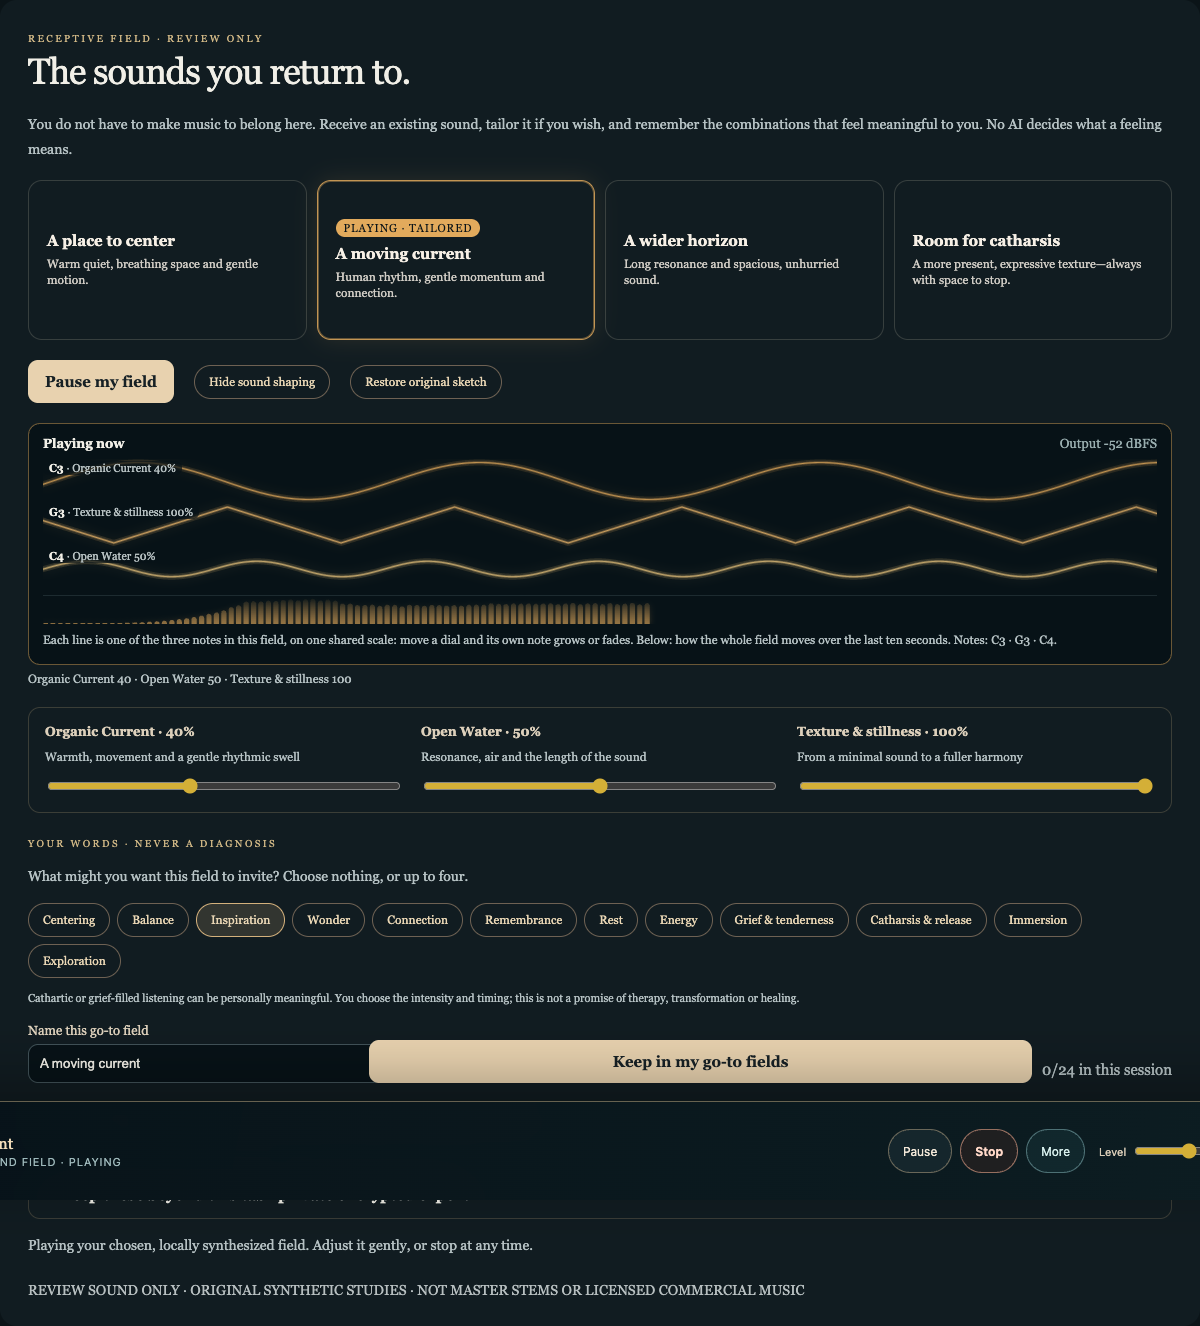
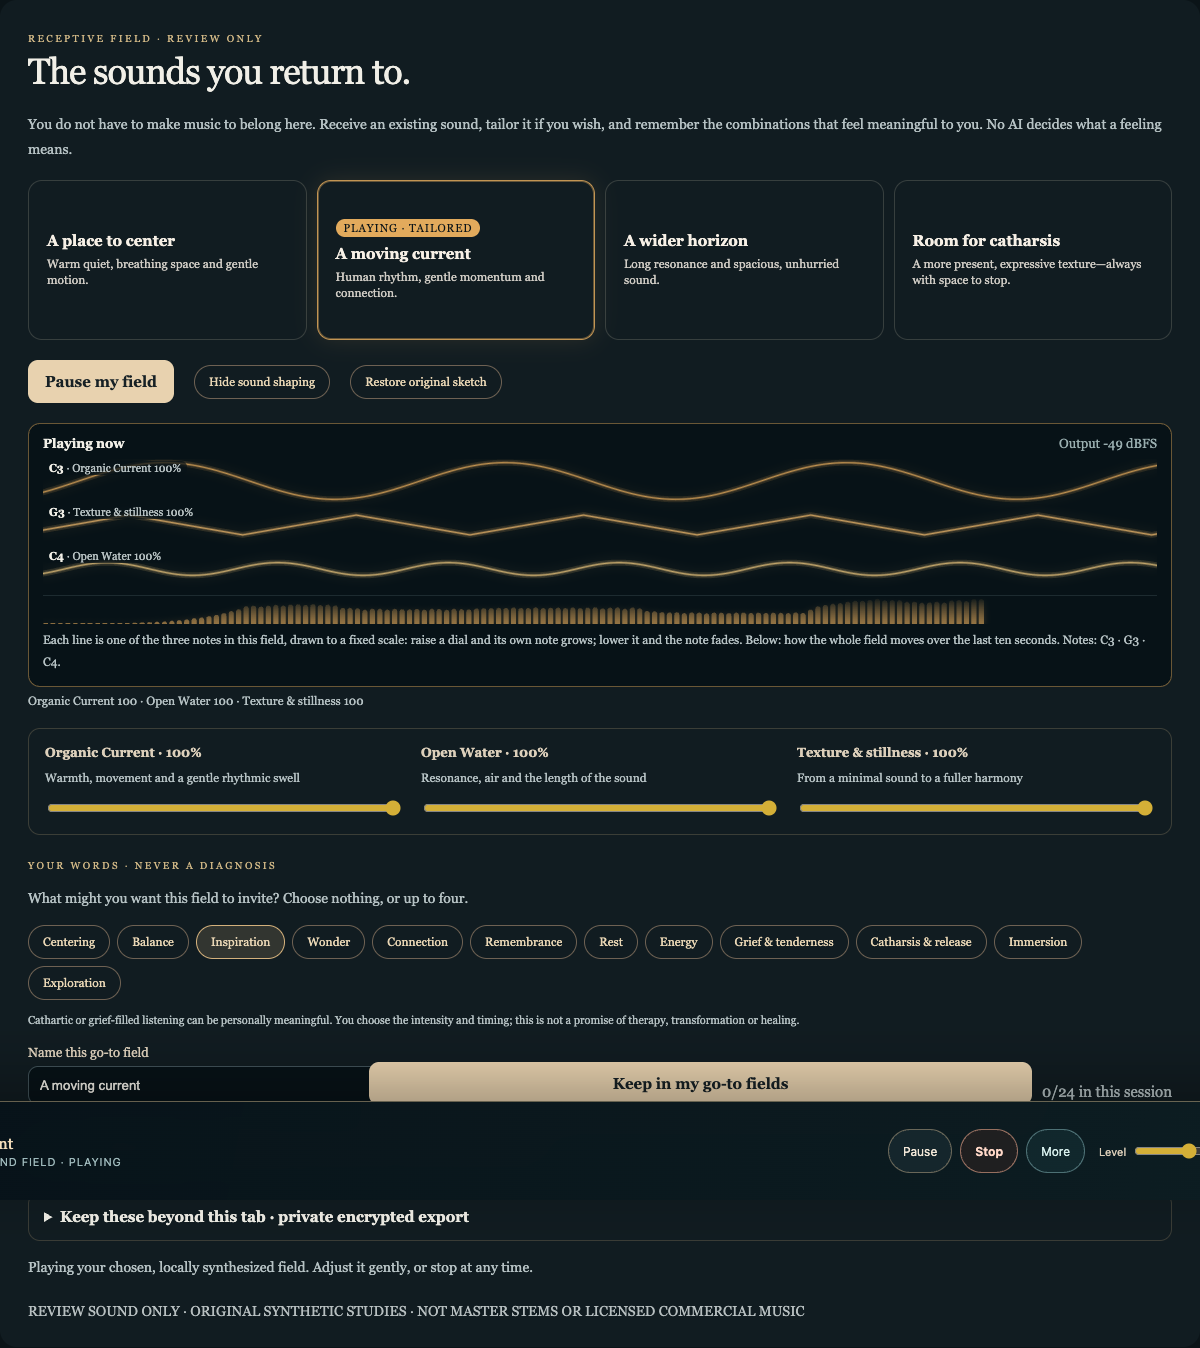
fix(listen): draw the Shelf's three lanes on a fixed full scale
The lanes were scaled to the loudest voice, so raising all three dials
together left the picture unchanged (founder screenshot at 100/100/100).
They are now drawn against the loudest a voice can be, so raising any dial,
or all three, grows its note on screen. The witness check that all three
lanes grow fails against the old scaling.

Founder screenshot 2026-11-19 on #1979.

diff --git a/app/listen/ReceptiveFieldDesk.tsx b/app/listen/ReceptiveFieldDesk.tsx
@@ -41,6 +41,13 @@ type Output = { analyser: AnalyserNode; voices?: AnalyserNode[]; frequencies: nu
  * Open Water → the top note (and the shared filter).
  */
 const VOICE_DIALS: ReadonlyArray<'pulse'|'density'|'space'> = ['pulse','density','space'];
+/**
+ * The loudest any voice can be, as applyReceptiveShape sets it: the lowest voice at 0.24 × (0.5 + 1)
+ * plus its swell (≤ 0.032). Every lane is drawn against this one FIXED scale, so raising a dial, or
+ * all three together, always visibly grows its note (founder, 2026-11-19). Voices are tapped before
+ * the level control, so the picture does not change with Level.
+ */
+const VOICE_FULL_SCALE = 0.24 * 1.5 + 0.032;
 /** How much time each lane shows: enough for a few cycles of the lowest note. */
 const WINDOW_SEC = 0.025;
 type Tint = readonly [number, number, number];
@@ -81,7 +88,8 @@ function LiveField({ getOutput, playing, paused, tint, shape }:{ getOutput:()=>O
       const n=voiceTaps?3:1, laneH=w.height/n;
       const buffers=(voiceTaps??(out?[out.analyser]:[])).map(a=>{const d=new Float32Array(a.fftSize);a.getFloatTimeDomainData(d);return d;});
       const peaks=buffers.map(d=>{let p=0;for(const v of d)if(Math.abs(v)>p)p=Math.abs(v);return p;});
-      scale=Math.max(...peaks,scale*0.985,1e-4); // eases down, so the picture breathes rather than jumps
+      // Voices: one fixed scale. The whole-output fallback (no voice taps): drawn to its own size, easing down.
+      scale=voiceTaps?VOICE_FULL_SCALE:Math.max(...peaks,scale*0.985,1e-4);
       const shades:[number,number][]=[[0,0.9],[22,0.8],[44,0.7]]; // the field's colour, lighter for higher notes
       for(let k=0;k<n;k++){
         const mid=laneH*k+laneH/2, d=buffers[k];
@@ -146,7 +154,7 @@ function LiveField({ getOutput, playing, paused, tint, shape }:{ getOutput:()=>O
     <canvas ref={motion} className={styles.liveMotion} aria-hidden="true" data-live-motion="true"/>
     <p className={styles.muted} style={{fontSize:12,margin:'6px 0 0'}}>
       {showLanes
-        ? 'Each line is one of the three notes in this field, on one shared scale: move a dial and its own note grows or fades. Below: how the whole field moves over the last ten seconds.'
+        ? 'Each line is one of the three notes in this field, drawn to a fixed scale: raise a dial and its own note grows; lower it and the note fades. Below: how the whole field moves over the last ten seconds.'
         : 'Top: the sound itself, drawn to its own size. Below: how it moves over the last ten seconds.'}
       {notes.length>0 && <> Notes: <span data-live-notes="true">{notes.map(noteName).join(' · ')}</span>.</>}
     </p>

diff --git a/docs/design/contracts/sound-studio-shelf.md b/docs/design/contracts/sound-studio-shelf.md
@@ -19,13 +19,14 @@ screenshot_desktop:
 screenshot_mobile:
   - docs/design/contracts/screenshots/sound-studio-shelf-live-mobile.png
 experience_verification: >
-  2026-11-19 isolated browser witness (tests/listening/shelf_live_view_browser_witness.cjs), 50/50: the real
+  2026-11-19 isolated browser witness (tests/listening/shelf_live_view_browser_witness.cjs), 52/52: the real
   ReceptiveFieldDesk inside the REAL PersistentListeningProvider, with their real stylesheets, in local Chrome at
   1440×1200 and 390×844. Before Play, the view says Not playing and no card is marked. Choosing a card marks only
   it. While playing, the card says Playing, the waveform moves, the real output level is shown, and the notes and
   settings appear. A different card shows different notes (G2 · D3 · G3 versus C3 · G3 · C4) and different
   settings, each in the field's own colour. Three lanes, one per note, are labelled with the dial that shapes
-  each; raising Texture & stillness grows only the middle note. Each lane shows a fixed 25 ms at the device's
+  each; raising Texture & stillness grows only the middle note,
+  and raising all three dials grows all three lanes on screen (against the old auto-scale this check fails). Each lane shows a fixed 25 ms at the device's
   rate (192 kHz on the founder's Mac), about 6.5 cycles of C4. Tailoring marks the card "tailored". Paused, the view says Paused and goes flat. An audio-graph edge
   log shows the taps add exactly four edges (the output and its three voices, each from a gain node into an
   analyser), that no analyser feeds anything, and that only one
@@ -44,7 +45,7 @@ A member wants to receive a generated sound field, shape it if they wish, and ke
 - **They can see that it is working.** While their field plays, a live view moves with the actual sound: the waveform itself, how it swells over the last ten seconds, and its real output level. Paused, it says so and goes flat.
 - **They can see what they are hearing.** The field's notes (for example G2 · D3 · G3) and its Organic Current, Open Water and Texture settings are shown, so different cards read differently.
 - **Each field has its own colour.** Lavender for A place to center, amber for A moving current, sea for A wider horizon, and rose for Room for catharsis. The chosen card and its live view take that colour; with no card chosen the view stays in house gold. The lines are soft, with a blurred halo under a thin line, rather than severe (founder, 2026-11-19).
-- **They can see the three notes.** Each field is three notes, and each dial shapes one of them: Organic Current the lowest (and its swell above 50), Texture & stillness the middle, Open Water the top (and the shared filter). The live view draws one lane per note on one shared scale, labelled with its note and dial, so moving a dial visibly grows or fades its own note (founder, 2026-11-19). Each lane shows a fixed 25 ms of time, whatever the device's sample rate.
+- **They can see the three notes.** Each field is three notes, and each dial shapes one of them: Organic Current the lowest (and its swell above 50), Texture & stillness the middle, Open Water the top (and the shared filter). The live view draws one lane per note on one FIXED scale (the loudest a voice can be), so raising any dial, or all three, always grows its note on screen, labelled with its note and dial, so moving a dial visibly grows or fades its own note (founder, 2026-11-19). Each lane shows a fixed 25 ms of time, whatever the device's sample rate.
 - **They know which card is sounding.** The chosen card is marked Chosen, then Playing, then "tailored" once a dial moves away from the card's own setting.
 - **Seeing changes nothing.** The view reads the one player's output through a tap that feeds nothing. It does not change the sound, its level or its notes, and it adds no control to the player bar.
 
